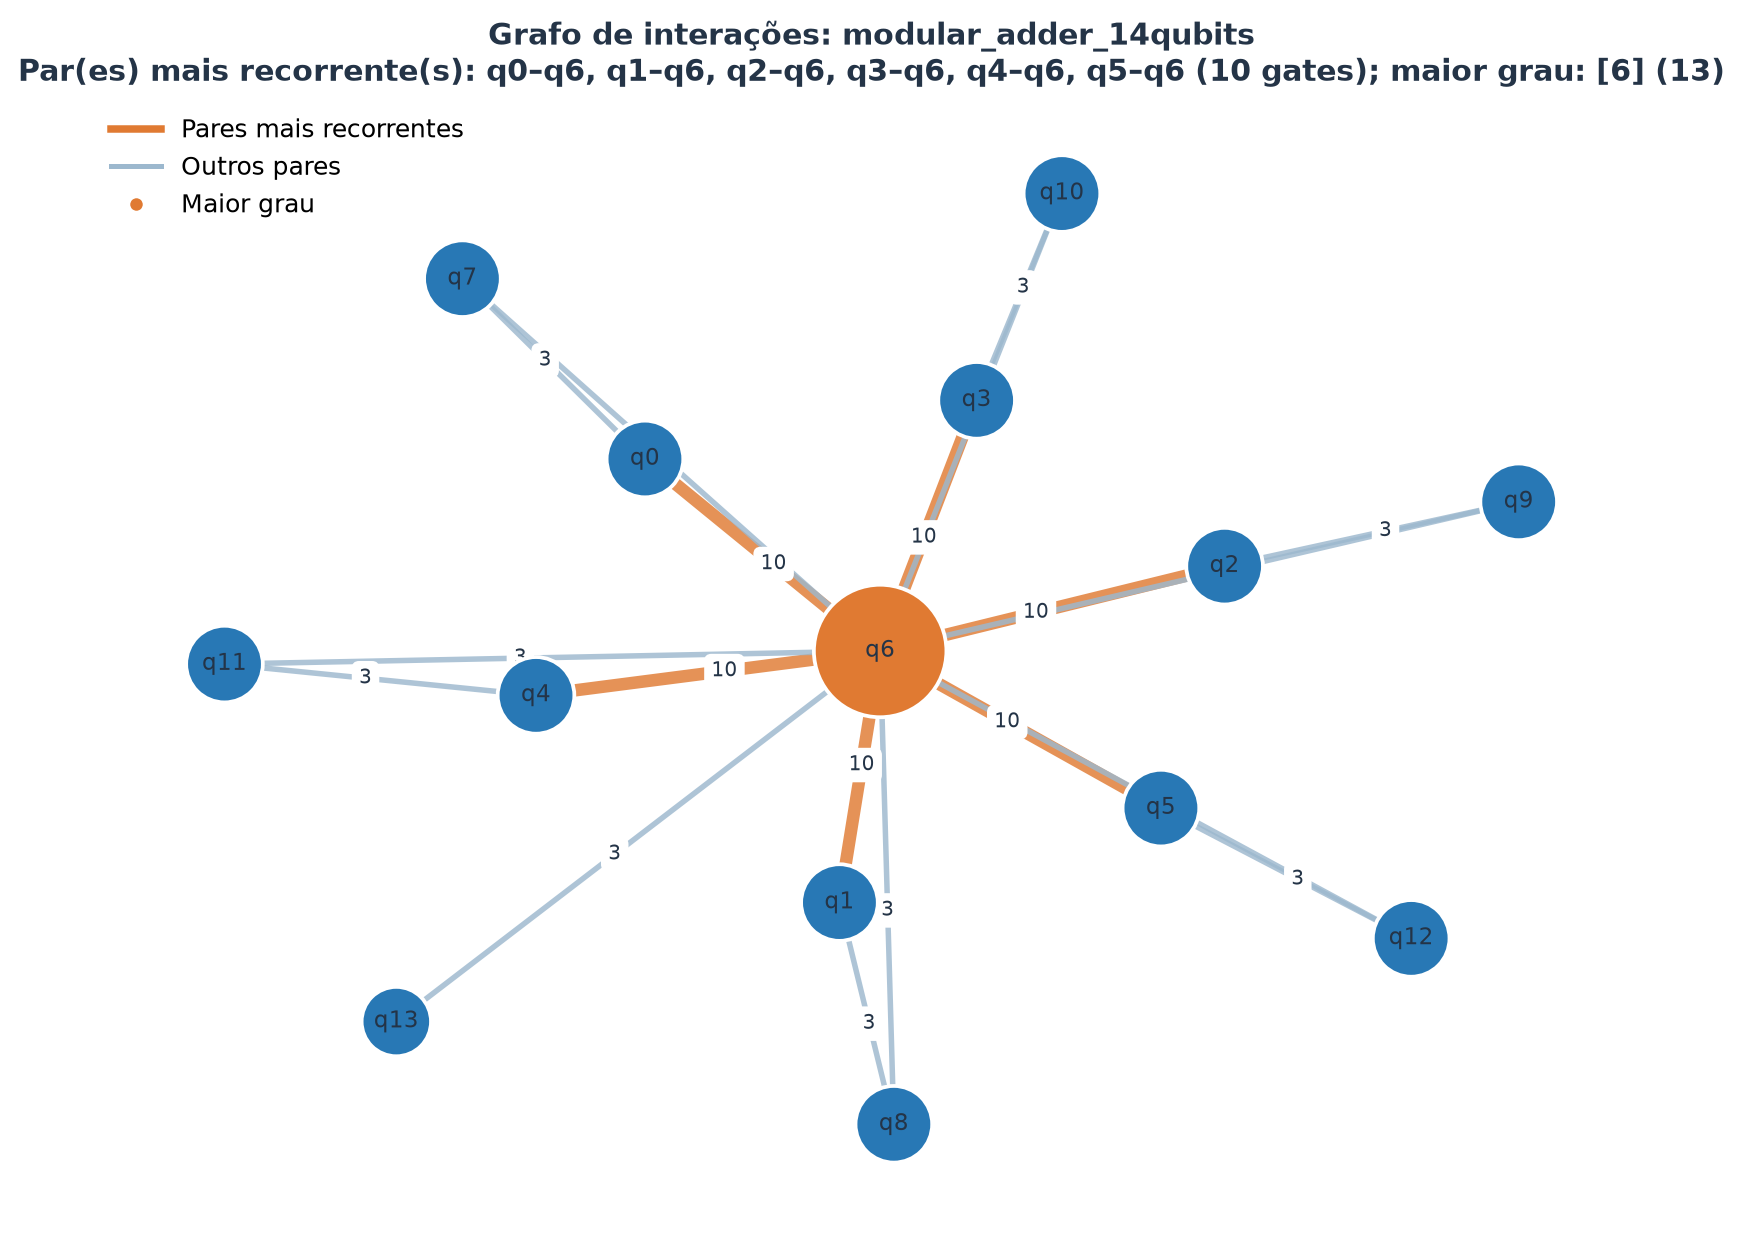
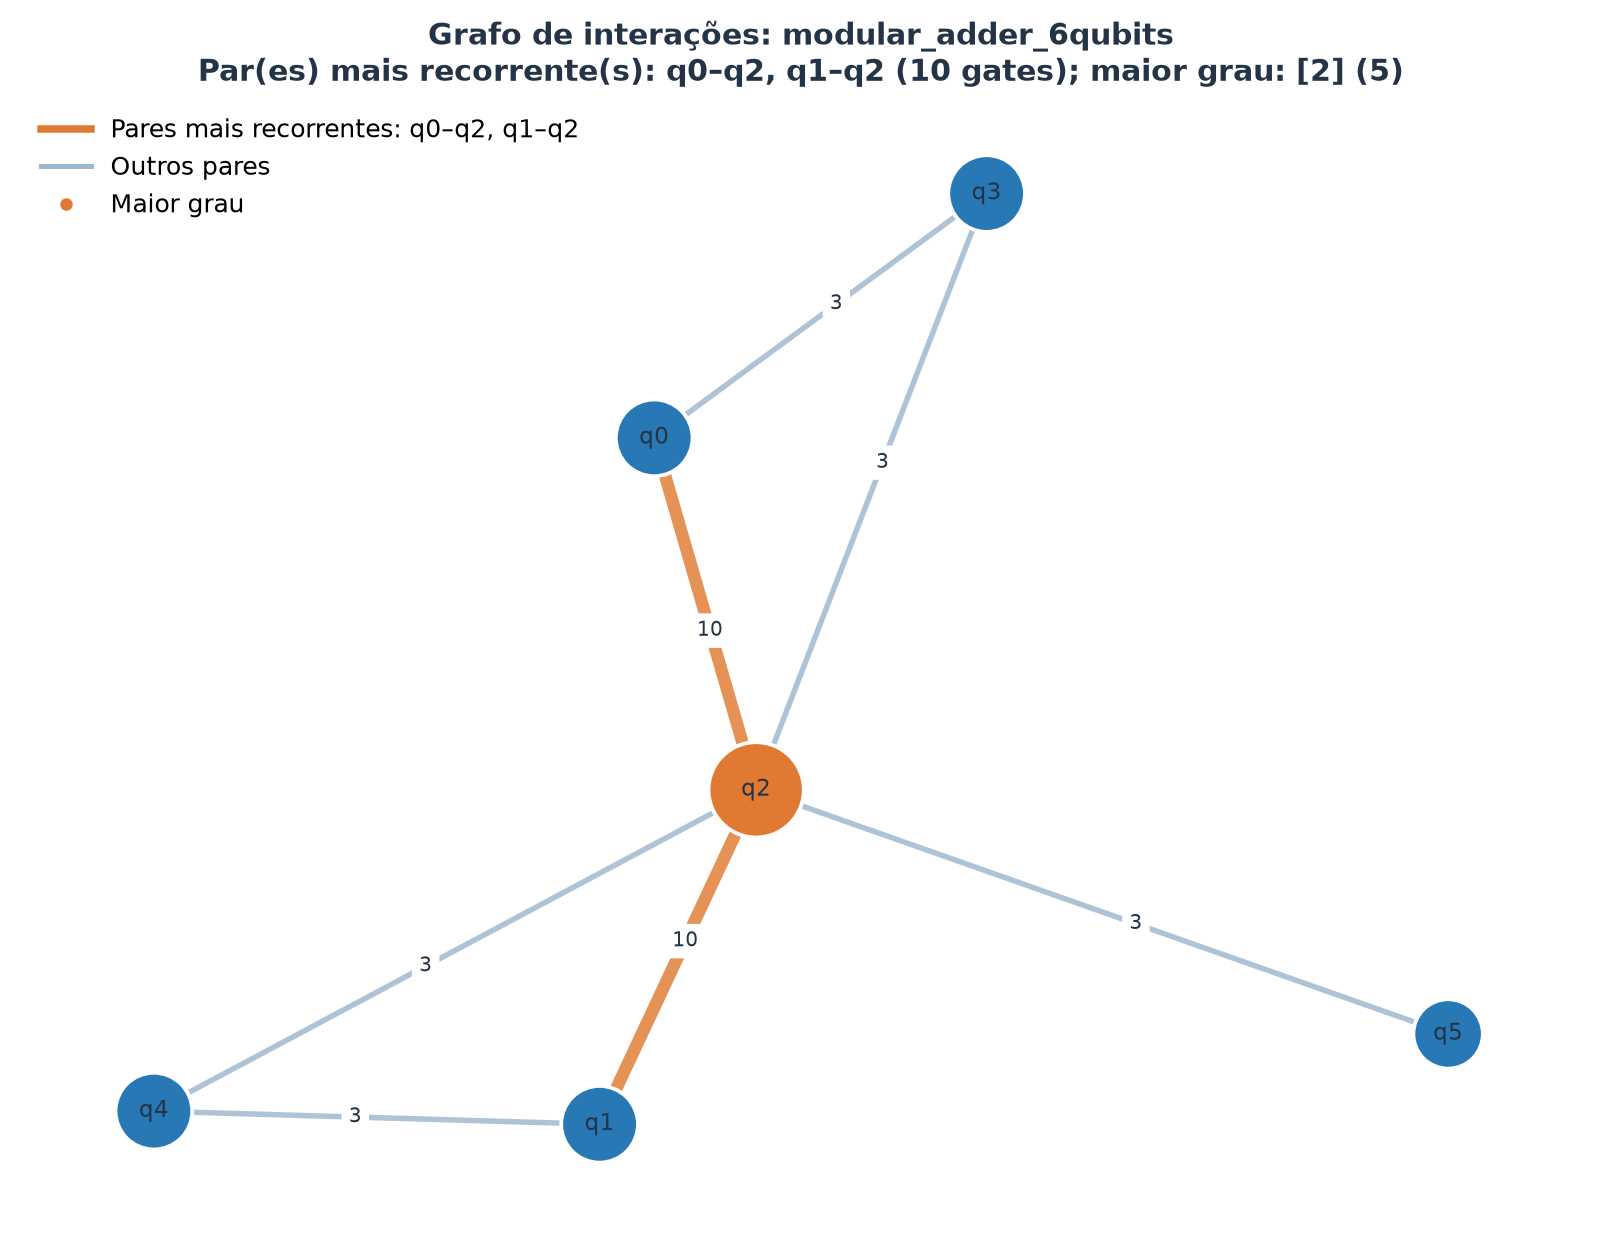
Streamlit: add EDA tab and dataset generation docs

diff --git a/analysis/presentation.py b/analysis/presentation.py
@@ -614,7 +614,9 @@ def _show_algorithms() -> None:
         with tab:
             section()
 
-    st.markdown("#### Resumo comparativo")
+
+def show_comparative_summary() -> None:
+    st.subheader(":blue[Resumo comparativo]")
     st.dataframe(
         pd.DataFrame(
             [
@@ -667,19 +669,162 @@ def show_presentation(
     _show_pipeline()
     _show_algorithms()
 
+
+# [IA] Claude Code (Claude Opus 5.5) – documentação da geração dos datasets na aba EDA
+def _show_dataset_generation(circuits: pd.DataFrame) -> None:
+    random_mask = circuits["categoria"] == "random"
+    real_circuits = circuits[~random_mask]
+    random_circuits = circuits[random_mask]
+
     st.divider()
+    st.subheader(":blue[Como os datasets foram gerados]")
+    st.markdown(
+        """
+        Todos os arquivos em `datasets/` foram **gerados por scripts do
+        projeto**, mas isso não significa que todos os valores sejam
+        inventados. Alguns conjuntos reproduzem estruturas reais (algoritmos
+        quânticos conhecidos e layouts de conectividade), enquanto outros
+        atributos foram **sorteados** para simular um hardware.
+        """
+    )
+
+    real_box, synthetic_box = st.columns(2)
+    with real_box.container(border=True):
+        st.markdown("#### :green[Dados reais]")
+        st.markdown(
+            f"""
+            - **Circuitos de algoritmos** ({len(real_circuits):,} circuitos,
+              {real_circuits["categoria"].nunique():,} famílias): obtidos do
+              [MQT Bench](https://www.cda.cit.tum.de/mqtbench/), no nível
+              algorítmico, de 3 a 30 qubits. São implementações reais de
+              algoritmos como GHZ, QFT, QAOA, Grover e somadores.
+            - **Estrutura das topologias**: as conexões entre qubits físicos
+              vêm dos construtores de `CouplingMap` do Qiskit (linha, anel,
+              completa, grade, heavy-hex e heavy-square).
+            - **Interações derivadas**: as contagens por par e as listas
+              ordenadas de interações são extraídas dos circuitos, de forma
+              determinística, sem nenhum valor sorteado.
+            """
+        )
+    with synthetic_box.container(border=True):
+        st.markdown("#### :orange[Dados sintéticos]")
+        st.markdown(
+            f"""
+            - **Erro das conexões de hardware** (`gate_error_rate` e
+              `gate_fidelity`): sorteado de uma distribuição log-normal com
+              mediana de 0,15%, limitada ao intervalo 0,02%–1%.
+            - **Propriedades por qubit** (`readout_error` e
+              `t1_coherence_us`): erro de leitura log-normal e tempo T1
+              normal, ambos limitados.
+            - **Circuitos aleatórios** ({len(random_circuits):,} circuitos):
+              gerados com `random_circuit` do Qiskit, com 4 a 12 qubits e
+              profundidades 10, 20 e 30. Não representam um algoritmo.
+            """
+        )
+    st.warning(
+        "As taxas de erro do hardware **não são medições de um processador "
+        "real**: não há calibração, data nem dispositivo de origem. Por isso, "
+        "o erro estimado dos mapeamentos serve para comparar algoritmos entre "
+        "si, não para prever o desempenho em um hardware específico."
+    )
+
+    st.markdown("#### Conjuntos gerados")
+    st.dataframe(
+        pd.DataFrame(
+            [
+                {
+                    "Conjunto": "Circuitos de algoritmos",
+                    "Pasta": "datasets/algorithms/<algoritmo>/",
+                    "Como foi gerado": "MQT Bench (nível ALG), exportado em OpenQASM 2",
+                    "Origem": "Real",
+                },
+                {
+                    "Conjunto": "Circuitos aleatórios",
+                    "Pasta": "datasets/algorithms/random/",
+                    "Como foi gerado": (
+                        "random_circuit do Qiskit (até 2 operandos), "
+                        "exportado em OpenQASM 3, sem seed fixa"
+                    ),
+                    "Origem": "Sintético",
+                },
+                {
+                    "Conjunto": "Conectividade das topologias",
+                    "Pasta": "datasets/topologies/<topologia>/",
+                    "Como foi gerado": (
+                        "CouplingMap do Qiskit; arcos dirigidos, então um "
+                        "link bidirecional aparece duas vezes"
+                    ),
+                    "Origem": "Real (layouts de referência)",
+                },
+                {
+                    "Conjunto": "Erros e fidelidades do hardware",
+                    "Pasta": "datasets/topologies/<topologia>/",
+                    "Como foi gerado": (
+                        "Sorteio log-normal (gates e leitura) e normal (T1), "
+                        "com seed derivada do nome da topologia"
+                    ),
+                    "Origem": "Sintético",
+                },
+                {
+                    "Conjunto": "Interações por par",
+                    "Pasta": "datasets/interaction_analysis/algorithms/",
+                    "Como foi gerado": (
+                        "Contagem de instruções de dois qubits por par de "
+                        "qubits lógicos, incluindo pares com zero interações"
+                    ),
+                    "Origem": "Derivado dos circuitos",
+                },
+                {
+                    "Conjunto": "Interações ordenadas",
+                    "Pasta": "datasets/interaction_order/algorithms/",
+                    "Como foi gerado": (
+                        "Uma linha por instrução de dois qubits, na ordem do "
+                        "circuito e com a ordem dos operandos preservada"
+                    ),
+                    "Origem": "Derivado dos circuitos",
+                },
+            ]
+        ),
+        width="stretch",
+        hide_index=True,
+    )
+
+    with st.expander("Comandos para regenerar os datasets"):
+        st.code(
+            """python -m dataset_generation              # circuitos MQT, aleatórios e topologias
+python -m dataset_generation algorithms   # só circuitos do MQT Bench
+python -m dataset_generation random       # só circuitos aleatórios
+python -m dataset_generation topologies   # só topologias com erros sintéticos
+python -m analysis.generate_algorithm_interactions  # interações por par
+python -m analysis.generate_ordered_interactions    # interações ordenadas""",
+            language="bash",
+        )
+        st.caption(
+            "As topologias são reprodutíveis porque a seed vem do nome de cada "
+            "topologia. Os circuitos aleatórios não têm seed fixa, então podem "
+            "mudar ao regenerar."
+        )
+
+
+# [IA] Claude Code (Claude Opus 5.5) – aba EDA com dados e navegação
+def show_eda(
+    circuits: pd.DataFrame,
+    topologies: pd.DataFrame,
+    benchmarks: pd.DataFrame,
+) -> None:
+    st.header(":blue[EDA]")
     st.subheader(":blue[Dados e navegação]")
-    columns = st.columns(4)
-    columns[0].metric("Circuitos", f"{len(circuits):,}")
-    columns[1].metric("Topologias", f"{len(topologies):,}")
-    columns[2].metric(
-        "Famílias de circuitos",
-        f"{circuits['categoria'].nunique():,}",
-    )
-    columns[3].metric(
-        "Famílias de hardware",
-        f"{topologies['categoria'].nunique():,}",
-    )
+    circuit_box, topology_box = st.columns(2)
+    with circuit_box.container(border=True):
+        st.markdown("#### Circuitos")
+        left, right = st.columns(2)
+        left.metric("Circuitos", f"{len(circuits):,}")
+        right.metric("Famílias", f"{circuits['categoria'].nunique():,}")
+    with topology_box.container(border=True):
+        st.markdown("#### Topologias")
+        left, right = st.columns(2)
+        left.metric("Topologias", f"{len(topologies):,}")
+        right.metric("Famílias de hardware", f"{topologies['categoria'].nunique():,}")
     if not benchmarks.empty:
         st.caption(
             f"{len(benchmarks):,} execuções de benchmark pré-computadas "
@@ -700,3 +845,5 @@ def show_presentation(
         "independentes; não inclui erros de um qubit, leitura, decoerência "
         "ou crosstalk, e não é uma medição em hardware real."
     )
+
+    _show_dataset_generation(circuits)

diff --git a/analysis/streamlit_app.py b/analysis/streamlit_app.py
@@ -7,7 +7,11 @@ import pandas as pd
 import streamlit as st
 
 # [IA] Claude Code (Claude Opus 5.5) – importação da página de apresentação
-from analysis.presentation import show_presentation
+from analysis.presentation import (
+    show_comparative_summary,
+    show_eda,
+    show_presentation,
+)
 from analysis.visualize_avd import (
     generate,
     load_circuits,
@@ -587,12 +591,15 @@ if not benchmarks.empty:
     benchmarks = benchmarks.loc[benchmark_rows].copy()
 
 # [IA] Claude Code (Claude Opus 5.5) – aba de apresentação e tabelas de dados recolhidas
-tab_overview, tab_case, tab_comparison = st.tabs(
-    ["Apresentação", "Caso selecionado", "Comparação de algoritmos"]
+tab_overview, tab_eda, tab_case, tab_comparison = st.tabs(
+    ["Apresentação", "EDA", "Caso selecionado", "Comparação de algoritmos"]
 )
 
 with tab_overview:
     show_presentation(circuits, topologies, benchmarks)
+
+with tab_eda:
+    show_eda(circuits, topologies, benchmarks)
     with st.expander("Explorar os conjuntos de circuitos e topologias"):
         circuit_category = st.selectbox(
             "Filtrar tabela de circuitos por categoria",
@@ -880,6 +887,7 @@ with tab_comparison:
         "12 qubits, em topologias linear, anel, completa, grid, heavy-hex e "
         "heavy-square."
     )
+    show_comparative_summary()
     if benchmarks.empty:
         st.info("Ainda não há resultados de benchmark para comparar.")
     else:

diff --git a/out/parte2/notas_analiticas.md b/out/parte2/notas_analiticas.md
@@ -20,11 +20,11 @@ Compara taxas de erro por família de topologia; pontos vermelhos indicam 219 ob
 
 ## 5. `05_grafo_interacoes.png`
 
-Mostra o grafo lógico não direcionado de modular_adder_14qubits: nós são qubits lógicos, tamanho do nó indica grau, o laranja destaca os qubits de maior grau e os pares mais recorrentes, e largura/rótulo da aresta indicam a frequência de interações. O par mais frequente é q0–q6, q1–q6, q2–q6, q3–q6, q4–q6, q5–q6 (10 gates); o maior grau é dos qubits [6] (grau 13). A agregação perde ordem temporal e direção do gate, então o grafo explica afinidade estrutural, não uma rota nem um mapeamento.
+Mostra o grafo lógico não direcionado de modular_adder_6qubits: nós são qubits lógicos, tamanho do nó indica grau, o laranja destaca os qubits de maior grau e os pares mais recorrentes, e largura/rótulo da aresta indicam a frequência de interações. Par(es) mais recorrente(s): q0–q2, q1–q2 (10 gates); o maior grau é dos qubits [2] (grau 5). A agregação perde ordem temporal e direção do gate, então o grafo explica afinidade estrutural, não uma rota nem um mapeamento.
 
 ## 6. `06_grafo_topologia.png`
 
-Mostra a topologia física heavy_square_21qubits: tamanho do nó representa grau e cor/rótulo da aresta representa a taxa de erro média entre os arcos do par, em porcentagem (em topologias densas, os rótulos são omitidos para preservar legibilidade). O maior grau total é do qubit físico [17, 18] (entrada/saída por qubit: 17=4/4, 18=4/4). O link com maior erro é (6, 19) (0.294%) e o menor é (2, 11) (0.072%). A visualização agrega arcos recíprocos para legibilidade; o CSV original e as métricas preservam graus e contagens direcionadas. Este contraste ajuda a formular hipóteses de posicionamento, mas não prova desempenho.
+Mostra a topologia física ring_6qubits: tamanho do nó representa grau e cor/rótulo da aresta representa a taxa de erro média entre os arcos do par, em porcentagem (em topologias densas, os rótulos são omitidos para preservar legibilidade). O maior grau total é do qubit físico [0, 1, 2, 3, 4, 5] (entrada/saída por qubit: 0=2/2, 1=2/2, 2=2/2, 3=2/2, 4=2/2, 5=2/2). O link com maior erro é (3, 4) (0.181%) e o menor é (0, 1) (0.053%). A visualização agrega arcos recíprocos para legibilidade; o CSV original e as métricas preservam graus e contagens direcionadas. Este contraste ajuda a formular hipóteses de posicionamento, mas não prova desempenho.
 
 ## Comparação com soluções existentes
 
